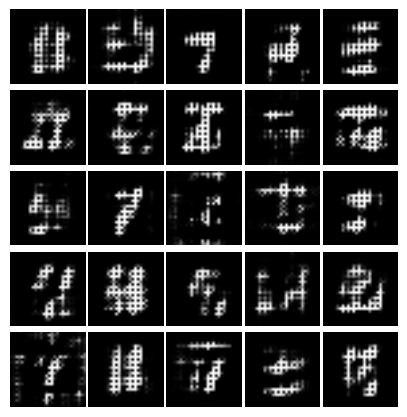
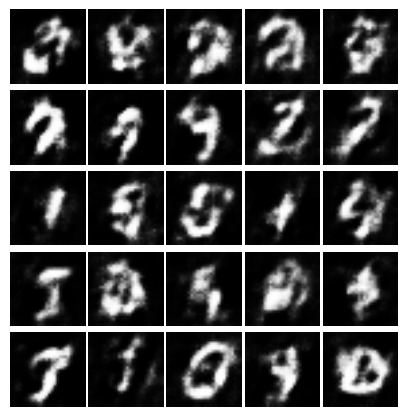
Adding different WGAN architectures

diff --git a/WGAN/WGAN4.py b/WGAN/WGAN4.py
@@ -41,14 +41,20 @@ def plot(samples):
 z = tf.placeholder(tf.float32, shape=(None, 100))
 
 with tf.variable_scope("Generator"):
+    
+    g_w1 = tf.Variable(tf.truncated_normal([100, 2048], stddev = 0.02))
+    g_b1 = tf.constant(0.1, shape=[2048])
 
-    g_w2 = tf.Variable(tf.truncated_normal([100, 6272], stddev = 0.02))
-    g_b2 = tf.constant(0.1, shape=[6272])
+    g_conv1 = tf.Variable(tf.truncated_normal([2, 2, 256, 512], stddev = 0.02))
+    g_conv1_bias = tf.constant(0.1, shape=[256])
 
-    g_conv2 = tf.Variable(tf.truncated_normal([7, 7, 128, 128], stddev = 0.02))
-    g_conv2_bias = tf.constant(0.1, shape=[128])
+    g_conv_added = tf.Variable(tf.truncated_normal([4, 4, 128, 256], stddev = 0.02))
+    g_conv_bias_added = tf.constant(0.1, shape=[128])
 
-    g_conv3 = tf.Variable(tf.truncated_normal([14, 14, 1, 128], stddev = 0.02))
+    g_conv2 = tf.Variable(tf.truncated_normal([7, 7, 64, 128], stddev = 0.02))
+    g_conv2_bias = tf.constant(0.1, shape=[64])
+
+    g_conv3 = tf.Variable(tf.truncated_normal([14, 14, 1, 64], stddev = 0.02))
     g_conv3_bias = tf.constant(0.1, shape=[1])
 
 
@@ -56,16 +62,30 @@ def Generator(z):
 
     batch_size = tf.shape(z)[0]
 
-    with tf.variable_scope("G2"):
+    with tf.variable_scope("G1"):
 
-        g2 = tf.matmul(z, g_w2) + g_b2
+        g1 = tf.matmul(z, g_w1) + g_b1
+        g1_batch_norm = tf.contrib.layers.batch_norm(g1, decay=0.9, updates_collections=None, epsilon=0.00001, scale=True, is_training=True, scope="Generator")
+        g1_relu = tf.nn.relu(g1_batch_norm)
+        g1 = tf.reshape(g1_relu, [batch_size, 2, 2, 512])
+
+    with tf.variable_scope("G2"):
+        
+        g2 = tf.nn.conv2d_transpose(g1, g_conv1, [batch_size, 4, 4, 256], [1, 2, 2, 1], padding="SAME")
+        g2 = tf.nn.bias_add(g2, g_conv1_bias)
         g2_batch_norm = tf.contrib.layers.batch_norm(g2, decay=0.9, updates_collections=None, epsilon=0.00001, scale=True, is_training=True, scope="Generator")
-        g2_relu = tf.nn.relu(g2_batch_norm)
-        g2 = tf.reshape(g2_relu, [batch_size, 7, 7, 128])
+        g2 = tf.nn.relu(g2_batch_norm)
+
+    with tf.variable_scope("G_added"):
+        
+        g_added = tf.nn.conv2d_transpose(g2, g_conv_added, [batch_size, 7, 7, 128], [1, 2, 2, 1], padding="SAME")
+        g_added = tf.nn.bias_add(g_added, g_conv_bias_added)
+        g_added_batch_norm = tf.contrib.layers.batch_norm(g_added, decay=0.9, updates_collections=None, epsilon=0.00001, scale=True, is_training=True, scope="Generator")
+        g_added = tf.nn.relu(g_added_batch_norm)
 
     with tf.variable_scope("G3"):
 
-        g3 = tf.nn.conv2d_transpose(g2, g_conv2, [batch_size, 14, 14, 128], [1, 2, 2, 1], padding="SAME")
+        g3 = tf.nn.conv2d_transpose(g_added, g_conv2, [batch_size, 14, 14, 64], [1, 2, 2, 1], padding="SAME")
         g3 = tf.nn.bias_add(g3, g_conv2_bias)
         g3_batch_norm = tf.contrib.layers.batch_norm(g3, decay=0.9, updates_collections=None, epsilon=0.00001, scale=True, is_training=True, scope="Generator")
         g3 = tf.nn.relu(g3_batch_norm)
@@ -135,11 +155,11 @@ def Discriminator(x):
     with tf.variable_scope("D5"):
 
         d4 = tf.reshape(d4, [-1, 512])
-        D = tf.matmul(d4, d_w5) + d_b5
+        D_logit = tf.matmul(d4, d_w5) + d_b5
         #D = tf.nn.sigmoid(D_logit)
         
 
-    return D
+    return D_logit
         
         
 generator_params = tf.get_collection(tf.GraphKeys.TRAINABLE_VARIABLES, scope="Generator")
@@ -151,20 +171,23 @@ G = Generator(z)
 
 with tf.variable_scope("Real"):
 
-    D_real_sample = Discriminator(x)
+    D_logit_real_sample = Discriminator(x)
 
 with tf.variable_scope("Generated"):
 
-    D_generated_sample = Discriminator(G)
+    D_logit_generated_sample = Discriminator(G)
 
-discriminator_loss = tf.reduce_mean(D_real_sample) - tf.reduce_mean(D_generated_sample)
 
-generator_loss = -tf.reduce_mean(D_generated_sample)
 
-train_D = tf.train.RMSPropOptimizer(learning_rate=0.0001).minimize(-discriminator_loss, var_list = discriminator_params)
-train_G = tf.train.RMSPropOptimizer(learning_rate=0.0001).minimize(generator_loss, var_list = generator_params)
 
-clipping = [p.assign(tf.clip_by_value(p, -0.0005, 0.0005)) for p in discriminator_params]
+discriminator_loss = tf.reduce_mean(D_logit_real_sample) - tf.reduce_mean(D_logit_generated_sample)
+
+generator_loss = -tf.reduce_mean(D_logit_generated_sample)
+
+train_D = tf.train.AdamOptimizer(learning_rate=0.0002, beta1=0.5).minimize(-discriminator_loss, var_list = discriminator_params)
+train_G = tf.train.AdamOptimizer(learning_rate=0.0002, beta1=0.5).minimize(generator_loss, var_list = generator_params)
+
+clipping = [p.assign(tf.clip_by_value(p, -0.01, 0.01)) for p in discriminator_params]
 
 config = tf.ConfigProto()
 config.gpu_options.per_process_gpu_memory_fraction = 0.85
@@ -175,8 +198,8 @@ sess.run(tf.global_variables_initializer())
 num_iters = 100001
 batch_size = 64
 
-if not os.path.exists('generated_samples2/'):
-    os.makedirs('generated_samples2/')
+if not os.path.exists('generated_samples_general_generalDCGAN/'):
+    os.makedirs('generated_samples_general_generalDCGAN/')
 
 it = 0
 
@@ -186,20 +209,14 @@ for i in range(num_iters):
         samples = sess.run(G, feed_dict={z: LatentVariables(25)})
         fig = plot(samples)
         plt.savefig
-        plt.savefig('generated_samples2/{}.png'.format(str(it).zfill(3)), bbox_inches='tight')
+        plt.savefig('generated_samples_general_generalDCGAN/{}.png'.format(str(it).zfill(3)), bbox_inches='tight')
         it += 1
         plt.close(fig)
 
-    if i < 25 or i % 500 == 0:
-        discrim_iter = 100
-    else:
-        discrim_iter = 5
-
     x_samples, y = mnist.train.next_batch(batch_size)
     z_samples = LatentVariables(batch_size)
-    for j in range(discrim_iter):
-        _, error2, _ = sess.run([train_D, discriminator_loss, clipping], {x: x_samples, z: z_samples})
-
+    _, error2 = sess.run([train_D, discriminator_loss], {x: x_samples, z: z_samples})
+    _, error4 = sess.run([train_G, generator_loss], {z: z_samples})
     _, error4 = sess.run([train_G, generator_loss], {z: z_samples})
 
 

diff --git a/WGAN/WGAN3.py b/WGAN/WGAN3.py
@@ -41,8 +41,14 @@ def plot(samples):
 z = tf.placeholder(tf.float32, shape=(None, 100))
 
 with tf.variable_scope("Generator"):
+    
+    g_w1 = tf.Variable(tf.truncated_normal([100, 1024], stddev = 0.02))
+    g_b1 = tf.constant(0.1, shape=[1024])
 
-    g_w2 = tf.Variable(tf.truncated_normal([100, 6272], stddev = 0.02))
+    g_wadded = tf.Variable(tf.truncated_normal([1024, 2048], stddev = 0.02))
+    g_badded = tf.constant(0.1, shape=[2048])
+
+    g_w2 = tf.Variable(tf.truncated_normal([2048, 6272], stddev = 0.02))
     g_b2 = tf.constant(0.1, shape=[6272])
 
     g_conv2 = tf.Variable(tf.truncated_normal([7, 7, 128, 128], stddev = 0.02))
@@ -56,9 +62,21 @@ def Generator(z):
 
     batch_size = tf.shape(z)[0]
 
+    with tf.variable_scope("G1"):
+
+        g1 = tf.matmul(z, g_w1) + g_b1
+        g1_batch_norm = tf.contrib.layers.batch_norm(g1, decay=0.9, updates_collections=None, epsilon=0.00001, scale=True, is_training=True, scope="Generator")
+        g1 = tf.nn.relu(g1_batch_norm)
+
+    with tf.variable_scope("G_added"):
+
+        g_added = tf.matmul(g1, g_wadded) + g_badded
+        g_added_batch_norm = tf.contrib.layers.batch_norm(g_added, decay=0.9, updates_collections=None, epsilon=0.00001, scale=True, is_training=True, scope="Generator")
+        g_added = tf.nn.relu(g_added_batch_norm)
+
     with tf.variable_scope("G2"):
 
-        g2 = tf.matmul(z, g_w2) + g_b2
+        g2 = tf.matmul(g_added, g_w2) + g_b2
         g2_batch_norm = tf.contrib.layers.batch_norm(g2, decay=0.9, updates_collections=None, epsilon=0.00001, scale=True, is_training=True, scope="Generator")
         g2_relu = tf.nn.relu(g2_batch_norm)
         g2 = tf.reshape(g2_relu, [batch_size, 7, 7, 128])
@@ -164,7 +182,7 @@ generator_loss = -tf.reduce_mean(D_generated_sample)
 train_D = tf.train.RMSPropOptimizer(learning_rate=0.0001).minimize(-discriminator_loss, var_list = discriminator_params)
 train_G = tf.train.RMSPropOptimizer(learning_rate=0.0001).minimize(generator_loss, var_list = generator_params)
 
-clipping = [p.assign(tf.clip_by_value(p, -0.0005, 0.0005)) for p in discriminator_params]
+clipping = [p.assign(tf.clip_by_value(p, -0.01, 0.01)) for p in discriminator_params]
 
 config = tf.ConfigProto()
 config.gpu_options.per_process_gpu_memory_fraction = 0.85
@@ -175,8 +193,8 @@ sess.run(tf.global_variables_initializer())
 num_iters = 100001
 batch_size = 64
 
-if not os.path.exists('generated_samples2/'):
-    os.makedirs('generated_samples2/')
+if not os.path.exists('generated_samples3_different_clipping/'):
+    os.makedirs('generated_samples3_different_clipping/')
 
 it = 0
 
@@ -186,7 +204,7 @@ for i in range(num_iters):
         samples = sess.run(G, feed_dict={z: LatentVariables(25)})
         fig = plot(samples)
         plt.savefig
-        plt.savefig('generated_samples2/{}.png'.format(str(it).zfill(3)), bbox_inches='tight')
+        plt.savefig('generated_samples3_different_clipping/{}.png'.format(str(it).zfill(3)), bbox_inches='tight')
         it += 1
         plt.close(fig)
 

diff --git a/WGAN/WGAN1.py b/WGAN/WGAN1.py
@@ -160,11 +160,11 @@ G = Generator(z)
 
 with tf.variable_scope("Real"):
 
-    D_real_sample= Discriminator(x)
+    D_real_sample = Discriminator(x)
 
 with tf.variable_scope("Generated"):
 
-    D_generated_sample= Discriminator(G)
+    D_generated_sample = Discriminator(G)
 
 discriminator_loss = tf.reduce_mean(D_real_sample) - tf.reduce_mean(D_generated_sample)
 
